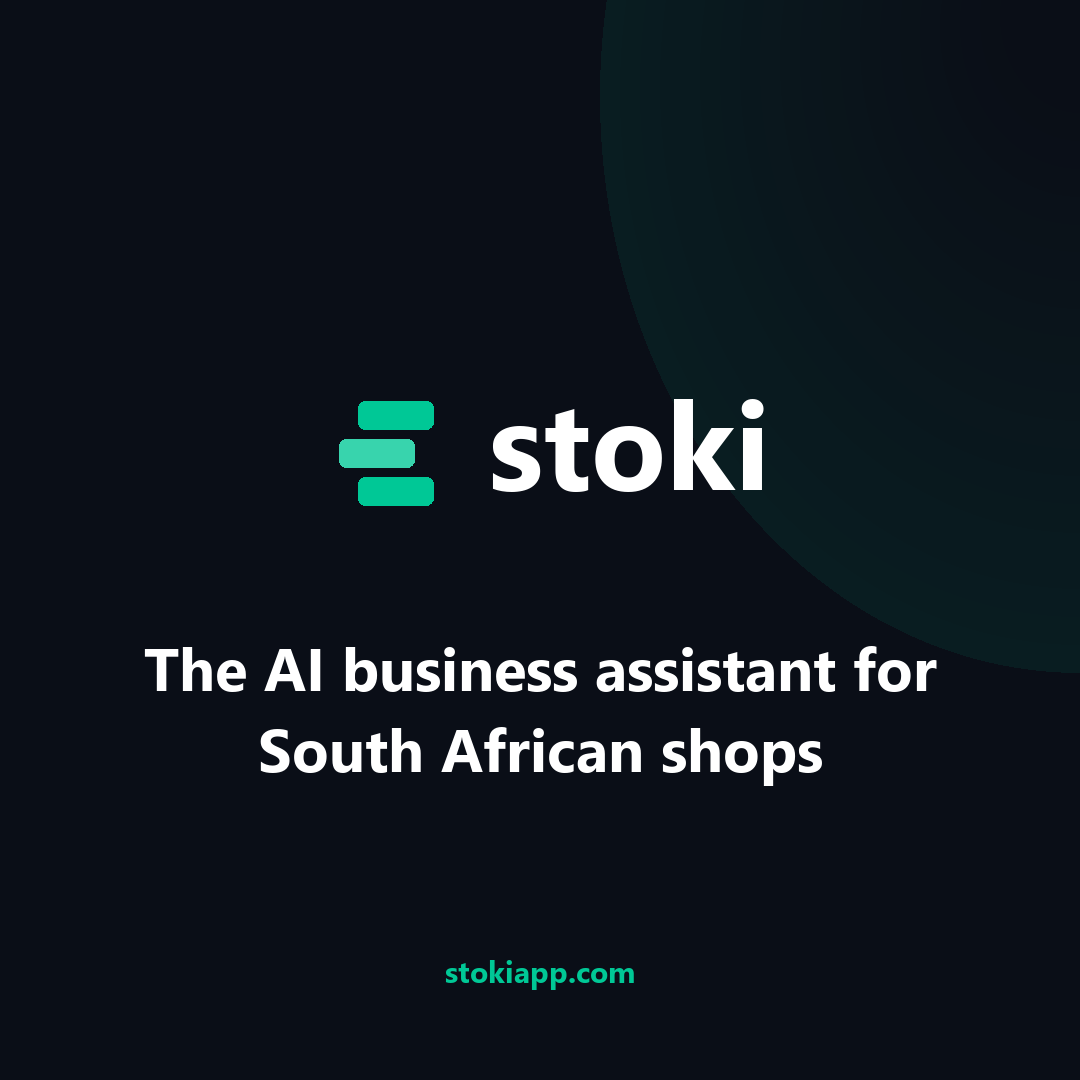
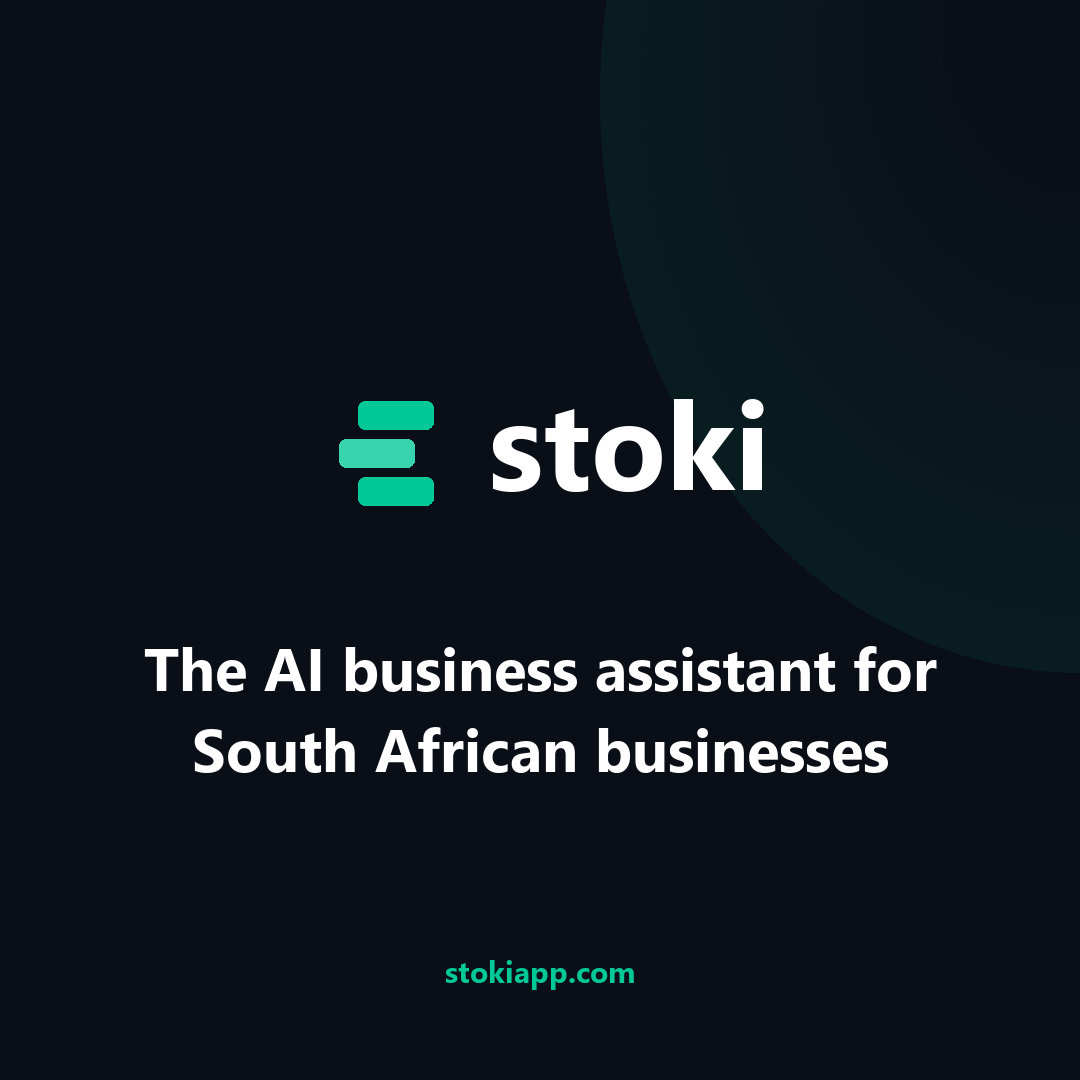
brand: broaden positioning — SMMEs, not just shops
The user pushed back that boxing Stoki into shops/retail-only alienates
the service businesses and formal SMMEs it also serves. Rewrote the
brand pack to reflect the full SA SMME spectrum:

- Post square + link headline: "The AI business assistant for South
  African businesses" (was "…for South African shops")
- README short/medium/long boilerplate: rewritten to list all three
  audience tiers (informal traders / service businesses / formal
  SMMEs), replaced "runs your till" with "runs your operations",
  and added the new ai_tone feature to the differentiators list
- Tagline alternatives: "The whole business, in one app" (was "The
  whole shop, in one app")
- Founder-announcement launch post: broader closing line, "any kind
  of small business — informal or formal, trader or service or
  contractor" (was "shop, salon, food stall, or any small business")
- Mark description: "stored value / a business's assets" (was
  "a shop's stock") — same silhouette, broader meaning

Regenerated PNGs; only the two with baked-in copy changed
(linkedin-post-square, linkedin-post-link). Avatars, cover, wordmark-
only cover, and standalone marks are unaffected — the same emerald-
on-ink mark identity carries across.

Changed region(s): [[0.1833, 0.6722, 0.825, 0.7333]]

diff --git a/branding/generate.py b/branding/generate.py
@@ -335,7 +335,7 @@ def make_post_square(path: Path, size: int = 1080) -> None:
 
     # Headline
     headline_font = load_font(int(size * 0.056))
-    headline = "The AI business assistant for South African shops"
+    headline = "The AI business assistant for South African businesses"
     # Simple manual line-wrap (Pillow doesn't have one built-in)
     lines = _wrap_text(draw, headline, headline_font, int(size * 0.78))
     line_h = int(size * 0.075)
@@ -399,7 +399,7 @@ def make_post_link(path: Path, w: int = 1200, h: int = 627) -> None:
 
     # Big tagline underneath
     tagline_font = load_font(int(h * 0.075))
-    lines = _wrap_text(draw, "The AI business assistant for South African shops.", tagline_font, int(w * 0.88))
+    lines = _wrap_text(draw, "The AI business assistant for South African businesses.", tagline_font, int(w * 0.88))
     line_h = int(h * 0.1)
     start_y = int(h * 0.55)
     for i, line in enumerate(lines):

diff --git a/branding/README.md b/branding/README.md
@@ -77,7 +77,7 @@ Three stacked, rounded blocks offset to suggest an "S" silhouette:
 ```
 
 **Reads as:**
-- Inventory / stacks / a shop's stock (the "stoki" concept)
+- Stacks / stored value / a business's assets (the "stoki" concept)
 - An "S" from a distance (Stoki initial)
 - A ledger / balance (accounting)
 - Movement (offset stack suggests flow)
@@ -94,24 +94,25 @@ Three stacked, rounded blocks offset to suggest an "S" silhouette:
 
 ### Short (one-line, for the profile subtitle)
 
-> AI-powered business assistant for South African shops & SMMEs.
+> The AI-powered business assistant for South African SMMEs.
 
 ### Medium (2-3 sentences, for the About section preview)
 
-> Stoki is the AI-powered business assistant built for South African shops and SMMEs. From your first sale to your next SARS submission — one app that runs your till, tracks your money, and answers your questions in plain English. Works on WhatsApp or the web, even offline.
+> Stoki is the AI-powered business assistant for South African SMMEs — informal and formal, from a street trader with one product to a VAT-registered business with staff. From your first sale to your next SARS submission — one app that runs your operations, tracks your money, and answers your questions in plain English. Works on WhatsApp or the web, even offline.
 
 ### Long (full About section)
 
-> **Stoki** is the operating system for South African small businesses. We combine a retail till, credit book, invoicing, payroll, VAT reporting, and an AI advisor grounded in the SA economy — all in one app that works on WhatsApp or the web, even offline.
+> **Stoki** is the operating system for South African small businesses — formal and informal, from your first customer to your first employee. We combine sales / POS, credit book, invoicing, payroll, VAT reporting, and an AI advisor grounded in the SA economy — all in one app that works on WhatsApp or the web, even offline.
 >
-> **Built for:**
-> - Spaza shops, general dealers, food stalls
-> - Salons, mobile operators, tradespeople, small contractors
-> - Growing SMMEs with employees (formal, VAT-registered)
+> **Built for every kind of SA small business:**
+> - **Informal traders**: spaza shops, general dealers, food stalls, street vendors
+> - **Service businesses**: salons, transport operators, tradespeople, contractors, consultants, mobile operators
+> - **Formal SMMEs**: growing businesses with staff, VAT-registered, with an accountant
 >
 > **What makes us different:**
 > - **WhatsApp-native**: sell, invoice, ask questions in your own language — right from the app your customers already message you on
 > - **AI that knows the SA economy**: SARB rates, fuel prices, SARS deadlines, load-shedding, competitor tracking — every insight grounded in your numbers *and* the local market
+> - **Adapts to your voice**: pick how Stoki AI talks to you — kasi, plain English, professional, or full-accounting technical — one setting, whole app changes
 > - **Offline-first**: keep trading through load-shedding and dodgy Wi-Fi; sync when you're back online
 > - **Made in South Africa, for South Africa**: PAYE / UIF / SDL / VAT201 are first-class, not afterthoughts
 >
@@ -123,7 +124,7 @@ Three stacked, rounded blocks offset to suggest an "S" silhouette:
 
 Alternatives if you want to A/B test:
 - *"Your AI business assistant, made in South Africa."*
-- *"The whole shop, in one app."*
+- *"The whole business, in one app."*
 - *"From first sale to SARS — one app."*
 
 ---
@@ -138,12 +139,12 @@ Draft copy you can adapt. Use `linkedin-post-square.png` as the image (or replac
 >
 > It's the AI-powered business assistant I wish I'd had every time I've helped a small business owner untangle their books.
 >
-> Not another accounting app. Not another till. **The whole shop in one app** — sales, stock, credit, invoices, payroll, VAT, and an AI that actually knows the SA economy (fuel prices, SARB rates, SARS deadlines, load-shedding — all grounded in *your* numbers).
+> Not another accounting app. Not another till. **The whole business in one app** — sales, stock, credit, invoices, payroll, VAT, and an AI that actually knows the SA economy (fuel prices, SARB rates, SARS deadlines, load-shedding — all grounded in *your* numbers).
 >
 > Works on WhatsApp. Works on the web. Works offline.
 > Free for your first store. 120-day Business trial for everyone.
 >
-> If you run a shop, salon, food stall, or any small business in SA — I built this for you.
+> If you run any kind of small business in SA — informal or formal, trader or service or contractor — I built this for you.
 >
 > 👉 stokiapp.com
 
